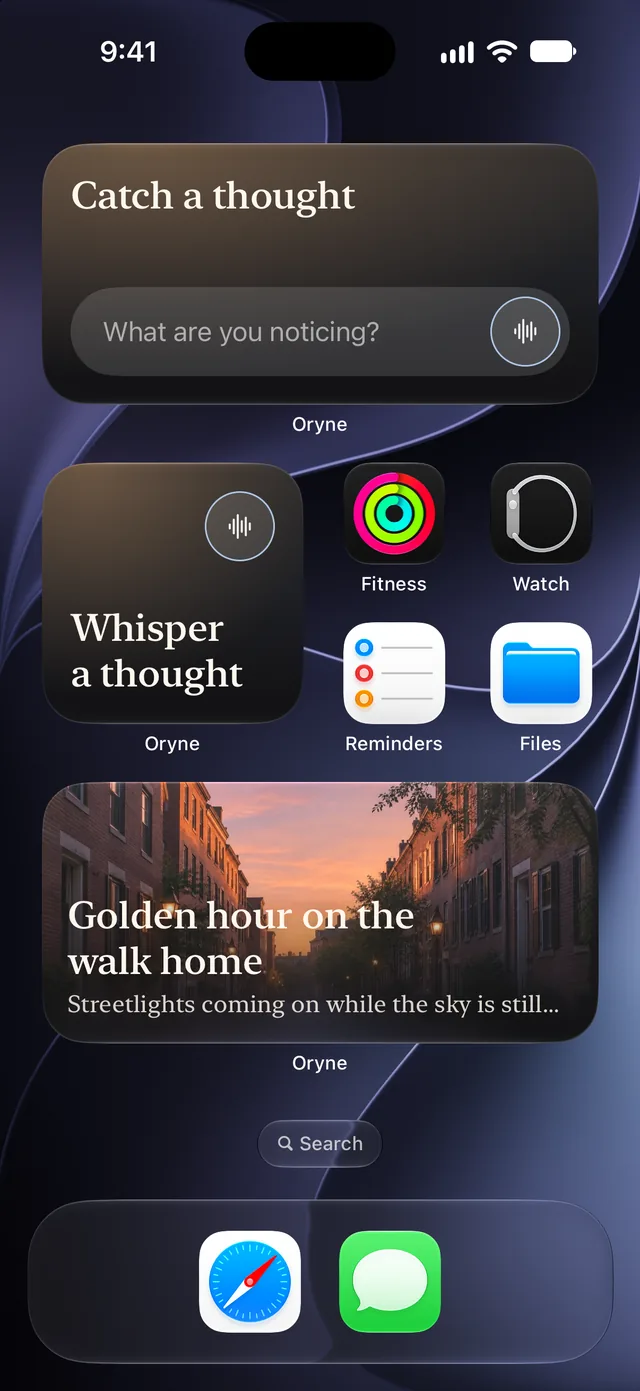
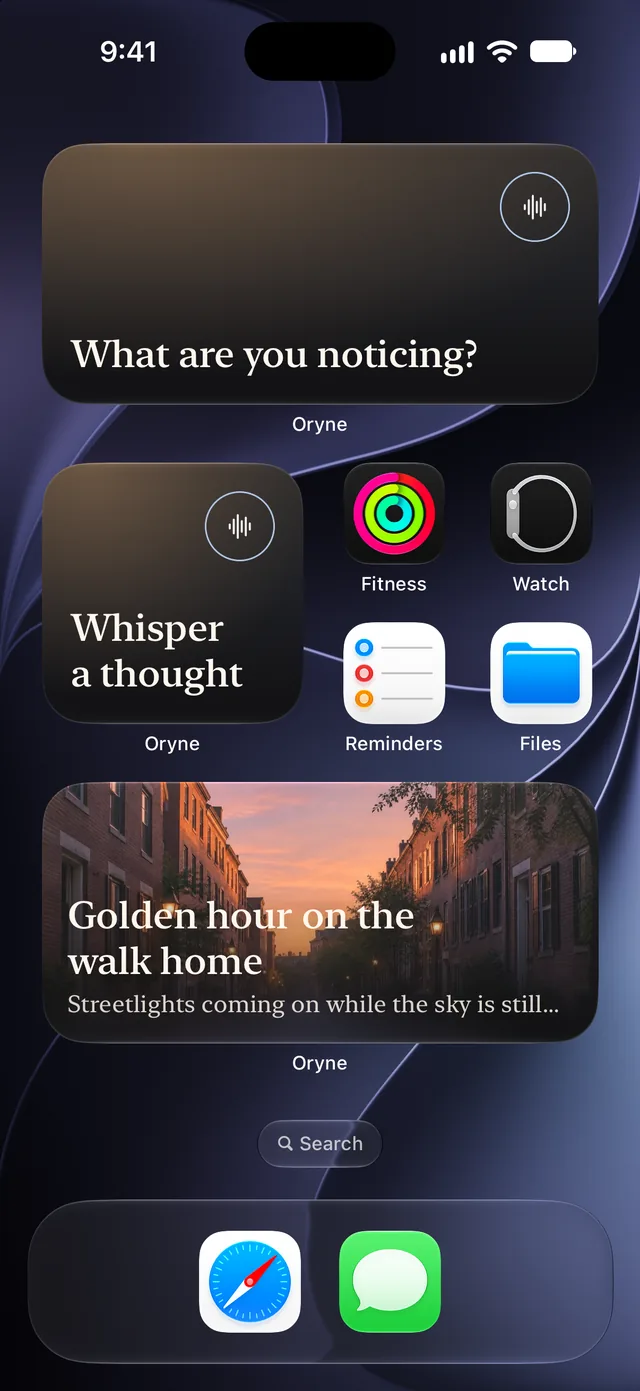
Quick Capture medium: one card, the ring top right, the question at the foot; no capsule or fills

diff --git a/OceanWidgets/QuickCaptureWidget.swift b/OceanWidgets/QuickCaptureWidget.swift
@@ -4,9 +4,12 @@ import SwiftUI
 /// One tap to the existing capture flow, in the app's identity (Malik,
 /// 2026-11-12: the widget still wore the look from before 2.1). Both Home
 /// Screen cards stand in Tide's warm Reading light, as the Resurfacing card
-/// does for a thought without a picture, and name themselves in New York.
-/// Medium carries the capture bar as it stands on Tide: the question opens
-/// the keyboard, the ring's disc whispers. Small is one tap into the
+/// does for a thought without a picture, with the ring's disc top right and
+/// the words at the foot, bottom left, in New York. One container, the card:
+/// no capsule or fill inside it (Malik, 2026-11-12: the capture bar copied
+/// into the card nested three containers). Medium is the capture bar's two
+/// routes: the card, which asks "What are you noticing?", opens the keyboard,
+/// and the ring whispers. Small is one tap into the
 /// preferred input, so it names that input ("Whisper a thought" or "Type a
 /// thought") and shows its glyph in the same disc, top right: a small widget
 /// has only the one tap, and it should say what the tap does.
@@ -85,7 +88,9 @@ struct QuickCaptureView: View {
                     .dynamicTypeSize(...DynamicTypeSize.xxxLarge)
             }
         }
-        .widgetURL(URL(string: "oryne://capture"))
+        // Medium's card is the question, so it types; small's single tap
+        // opens the preferred input.
+        .widgetURL(URL(string: family == .systemMedium ? "oryne://capture/thought" : "oryne://capture"))
         .containerBackground(for: .widget) {
             if family == .systemSmall || family == .systemMedium {
                 OceanWidgetStyle.readingLight
@@ -117,13 +122,22 @@ struct QuickCaptureView: View {
         entry.input == .voiceFirst ? "Whisper a thought" : "Type a thought"
     }
 
-    /// The name top left, the capture bar at the foot.
+    /// The ring top right, a whisper; the question at the foot, bottom left,
+    /// and with it the whole card, opens the keyboard.
     private var medium: some View {
         VStack(alignment: .leading, spacing: 0) {
-            title("Catch a thought")
-                .lineLimit(1)
+            HStack {
+                Spacer(minLength: 0)
+                Link(destination: URL(string: "oryne://capture/whisper")!) {
+                    CaptureDisc(symbol: FastCaptureInputPreference.voiceFirst.symbol)
+                }
+                .accessibilityLabel("Whisper")
+            }
             Spacer(minLength: OceanSpacing.gap)
-            CaptureBarCopy()
+            title("What are you noticing?")
+                .lineLimit(2)
+                .accessibilityLabel("Catch a thought")
+                .accessibilityAddTraits(.isButton)
         }
         .frame(maxWidth: .infinity, maxHeight: .infinity, alignment: .topLeading)
     }
@@ -136,39 +150,9 @@ struct QuickCaptureView: View {
     }
 }
 
-/// The capture bar as it stands on Tide, at its own measures: a 56 pt
-/// capsule, its question in mist from the end's curve, the disc inset 6 pt
-/// at the trailing end. The widget cannot draw Liquid Glass, so the capsule
-/// wears the content layer's raised surface. Two links: the question opens
-/// the keyboard, the disc a whisper.
-private struct CaptureBarCopy: View {
-    private var height: CGFloat { OceanControlSize.bar }
-
-    var body: some View {
-        HStack(spacing: OceanSpacing.gap) {
-            Link(destination: URL(string: "oryne://capture/thought")!) {
-                Text("What are you noticing?")
-                    .oceanText(OceanType.body)
-                    .foregroundStyle(OceanTheme.mist)
-                    .lineLimit(1)
-                    .padding(.leading, height / 2 - OceanSpacing.gap)
-                    .frame(maxWidth: .infinity, maxHeight: .infinity, alignment: .leading)
-                    .contentShape(Rectangle())
-            }
-            .accessibilityLabel("Catch a thought")
-            Link(destination: URL(string: "oryne://capture/whisper")!) {
-                CaptureDisc(symbol: FastCaptureInputPreference.voiceFirst.symbol)
-            }
-            .accessibilityLabel("Whisper")
-            .padding(.trailing, OceanControlSize.discInset)
-        }
-        .frame(height: height)
-        .background(OceanSurface(shape: Capsule(), raised: true))
-    }
-}
-
-/// The capture disc: a 44 pt circle with the ring's hairline rim, the one
-/// shape Oryne owns (design/identity-2.1.md, R3), and the input's glyph.
+/// The capture disc: the ring's hairline rim at 44 pt, the one shape Oryne
+/// owns (design/identity-2.1.md, R3), around the input's glyph. No fill: the
+/// ring alone marks it on the card.
 private struct CaptureDisc: View {
     let symbol: String
 
@@ -177,7 +161,6 @@ private struct CaptureDisc: View {
             .oceanText(OceanType.control)
             .foregroundStyle(OceanTheme.foam)
             .frame(width: OceanControlSize.height, height: OceanControlSize.height)
-            .background(Circle().fill(OceanTheme.fill))
             .overlay(Circle().strokeBorder(OceanTheme.ring, lineWidth: OceanSize.ringHairline))
             .widgetAccentable()
             .accessibilityHidden(true)

diff --git a/website/zh/index.html b/website/zh/index.html
@@ -198,7 +198,7 @@
         </div>
         <div class="chapter__visual">
           <figure class="phone" data-anchor="resurface-widget">
-            <img class="phone__screen" src="../assets/img/screens/widget.webp" width="640" height="1391" alt="主屏幕上的 Oryne 小组件：「快速捕捉」的捕捉栏和一键「说一段语音」卡片，以及「再次浮现」，今天浮现的灵感「Golden hour on the walk home」，画面铺满卡片。" loading="lazy" decoding="async">
+            <img class="phone__screen" src="../assets/img/screens/widget.webp" width="640" height="1391" alt="主屏幕上的 Oryne 小组件：「快速捕捉」问你注意到了什么、圆环可以说一段语音，以及一键「说一段语音」卡片，以及「再次浮现」，今天浮现的灵感「Golden hour on the walk home」，画面铺满卡片。" loading="lazy" decoding="async">
             <img class="phone__frame" src="../assets/img/phone-frame.webp" width="900" height="1840" alt="" aria-hidden="true" decoding="async" loading="lazy">
           </figure>
         </div>

diff --git a/website/index.html b/website/index.html
@@ -198,7 +198,7 @@
         </div>
         <div class="chapter__visual">
           <figure class="phone" data-anchor="resurface-widget">
-            <img class="phone__screen" src="assets/img/screens/widget.webp" width="640" height="1391" alt="Oryne's widgets on the Home Screen: Quick Capture with its capture bar and its one-tap Whisper a thought card, and Resurfacing with today's thought, Golden hour on the walk home, its picture filling the card." loading="lazy" decoding="async">
+            <img class="phone__screen" src="assets/img/screens/widget.webp" width="640" height="1391" alt="Oryne's widgets on the Home Screen: Quick Capture asking What are you noticing? with the ring to whisper, and its one-tap Whisper a thought card, and Resurfacing with today's thought, Golden hour on the walk home, its picture filling the card." loading="lazy" decoding="async">
             <img class="phone__frame" src="assets/img/phone-frame.webp" width="900" height="1840" alt="" aria-hidden="true" decoding="async" loading="lazy">
           </figure>
         </div>

diff --git a/design/appstore/2.3/whats-new.md b/design/appstore/2.3/whats-new.md
@@ -1,10 +1,10 @@
 # Oryne 2.3: App Store text
 
-Sources: PR #41 (iPhone Duo and big screens) and the Library's month sections. The app has only an English (U.S.) localization, so there is no Chinese What's New. App Store Connect rejects ✕ and other dingbats in this field; bullets are fine.
+Sources: PR #41 (iPhone Duo and big screens), the Library's month sections, and the widgets (PRs #46, #47, #48), added after 2.3 was first submitted and withdrawn on 2026-11-12. The app has only an English (U.S.) localization, so there is no Chinese What's New. App Store Connect rejects ✕ and other dingbats in this field; bullets are fine.
 
 ## What's New in This Version
 
-Oryne 2.3. Made for iPhone Duo, with more room on iPad.
+Oryne 2.3. Made for iPhone Duo, with more room on iPad, and new widgets.
 
 • Open iPhone Duo and Tide stands in two halves: the thought that came back on one side, what just drifted in on the other.
 • Two screens, one Ocean. A thought, a current, a new branch or an edit opens in the other half, so the page you came from stays in view.
@@ -12,6 +12,8 @@ Oryne 2.3. Made for iPhone Duo, with more room on iPad.
 • On iPad and iPhone Duo, the Library spreads into more columns, and your currents become cards.
 • On big screens the capture bar and Ask keep to a comfortable reading width.
 • The Library now groups your thoughts by month, after Today, Yesterday and the Previous 7 Days, the way Photos does.
+• New widgets. Resurfacing is one card: today's thought fills it with its picture, or stands in Tide's warm light. It now comes in small and medium.
+• Quick Capture brings the capture bar to your Home Screen: tap the question to type, or the ring to whisper. The small one says what it opens, Whisper a thought or Type a thought.
 
 ## Promotional Text (170 characters at most; can change without a new version)
 

diff --git a/website/README.md b/website/README.md
@@ -112,7 +112,7 @@ fact the water shows is also written on the page, and Reduce Motion (or
   - `detail.webp`: the thought page of "Warm to cool, not a filter", showing Grow a branch.
   - `library.webp`: the Library in its grid view.
   - `widget.webp` (2026-11-12): the Home Screen with Oryne's three cards, added from the widget
-    gallery (Edit › Add Widget, search "Oryne"): Quick Capture medium and small, and the Resurfacing
+    gallery (Edit › Add Widget, search "Oryne"): Quick Capture medium and small (one card each, the ring top right), and the Resurfacing
     card while Tide resurfaced "Golden hour on the walk home".
 - iPhone Duo: `assets/img/duo.webp`, the folded and the open Duo side by side on transparency,
   rendered from Duo simulator captures (Tide folded, a thought open beside the list) in the shapes of
